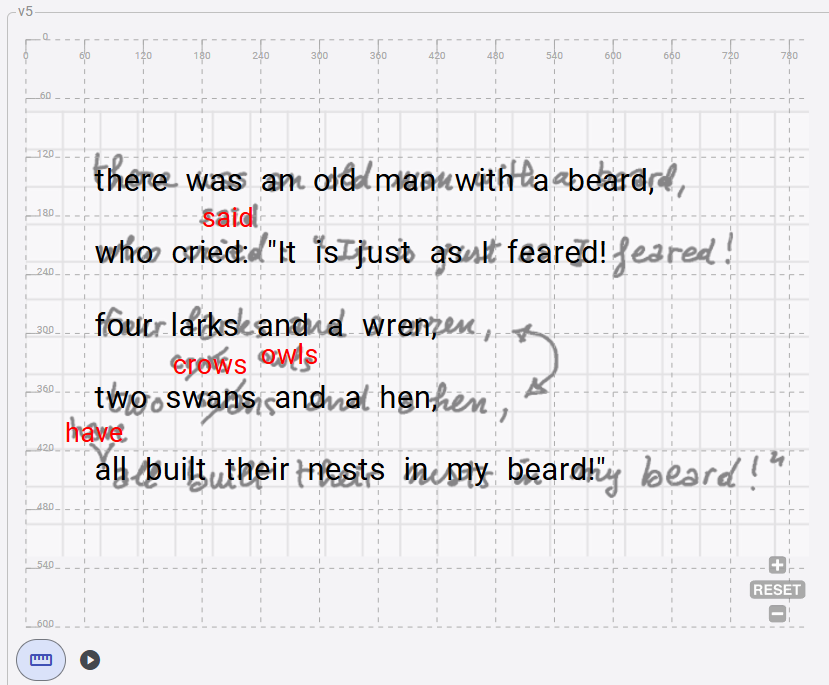
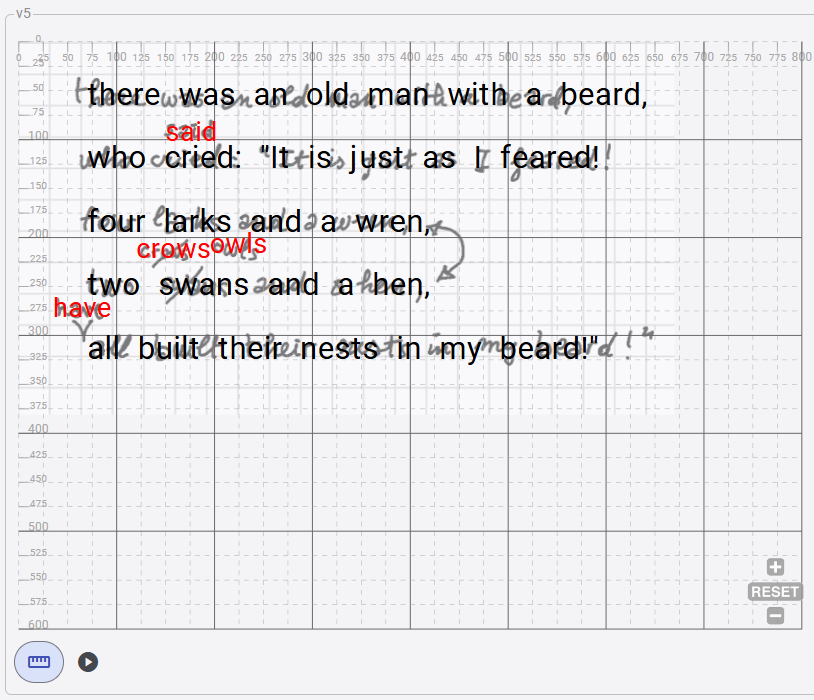
Screenshots

Changed region(s): [[0.0, 0.0, 1.0, 1.0]]

diff --git a/docs/model/limerick.md b/docs/model/limerick.md
@@ -40,8 +40,8 @@ Further, to give an approximate reproduction of the text layout, we add set thes
 
 - text style: `font-size: 32px`
 - X offset = 70
-- Y offset = 130
-- ln h-offset=35
+- Y offset = 40
+- ln h-offset=26
 
 ## Adding Operations
 
@@ -74,14 +74,20 @@ Let us formalize this interpretation, representing it with the [DSL syntax](text
 So, here we are describing all changes step after step. Each operation output produces a new version, but only two of them are marked as staged, with names `alpha` and `beta` respectively. In short:
 
 ```txt
-40x5="said" [*log="said for cried" x="180" y="170" style="font-size:28px;fill:red"]
-99x5="crows" [*log="crows for swans" x="150" y="320" style="font-size:28px;fill:red"]
-116+["have " [*log="insert have" *version^="alpha" reason="metrical" x="40" y="390" style="font-size:28px;fill:red"]
+40x5="said" [*log="said for cried" x="150" y="80" style="font-size:28px;fill:red"]
+99x5="crows" [*log="crows for swans" x="120" y="200" style="font-size:28px;fill:red"]
+116+["have " [*log="insert have" *version^="alpha" reason="metrical" x="35" y="260" style="font-size:28px;fill:red"]
 72x23<>95x21  [*log="swap verses"]
-155x5="owls" [*log="owls for crows" *version^="beta" x="240" y="310" style="font-size:28px;fill:red"]
+155x5="owls" [*log="owls for crows" *version^="beta" x="195" y="195" style="font-size:28px;fill:red"]
 ```
 
-To view their result we can look at the snapshot view. Here, we also add a background image from some URL (e.g. <http://www.fusisoft.it/xfer/limerick.png>), so that we can see the facsimile behind our snapshot. To this end, we set the background image opacity to about 0.5. The snapshot view shows our result for the output of the last operation in the set (`v5`):
+To view their result we can look at the snapshot view. Here, we also add a background image from some URL (e.g. <http://www.fusisoft.it/xfer/limerick.png>), so that we can see the facsimile behind our snapshot. To this end, we set these background image parameters:
+
+- width: 670 (this is simply the image's width)
+- height: 381 (this is simply the image's height)
+- opacity = 0.5.
+
+The snapshot view shows our result for the output of the last operation in the set (`v5`):
 
 ![snapshot view](img/limerick-view1.png)
 
@@ -199,6 +205,8 @@ If you want a shorter SVG, in most cases you can drop the decimal digits and jus
 <path style="fill:none;stroke:#ff0000;stroke-width:2" d="m 429,189 c 13,3 43,8 11,44" id="arrow-line" />
 <path style="fill:none;stroke:#ff0000;stroke-width:2" d="m 436,229 8,11 -15,2 z" id="arrow-cap-2" />
 ```
+
+>💡 The operation editor has a _remove decimals_ button used right for this purpose.
 
 As you can see, the IDs make it easy to understand which path belongs to which operation. We can now simply copy-paste the path(s) belonging to each operation into their visuals, wrapping them into an SVG group (`g`).
 
